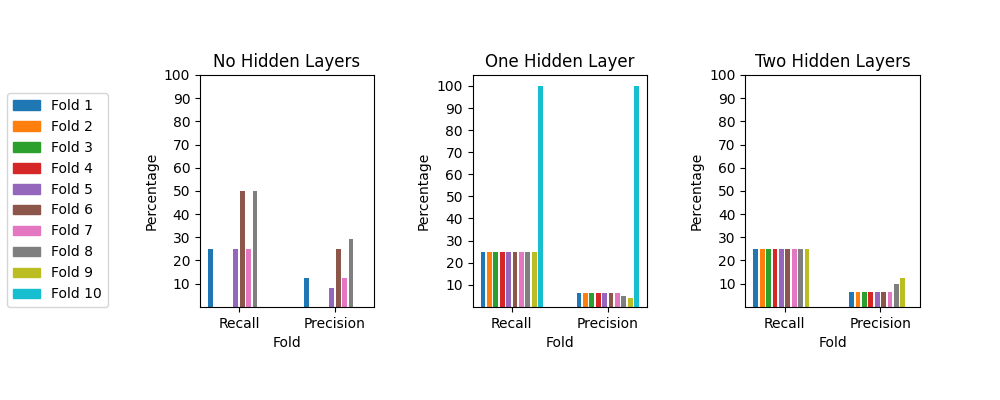
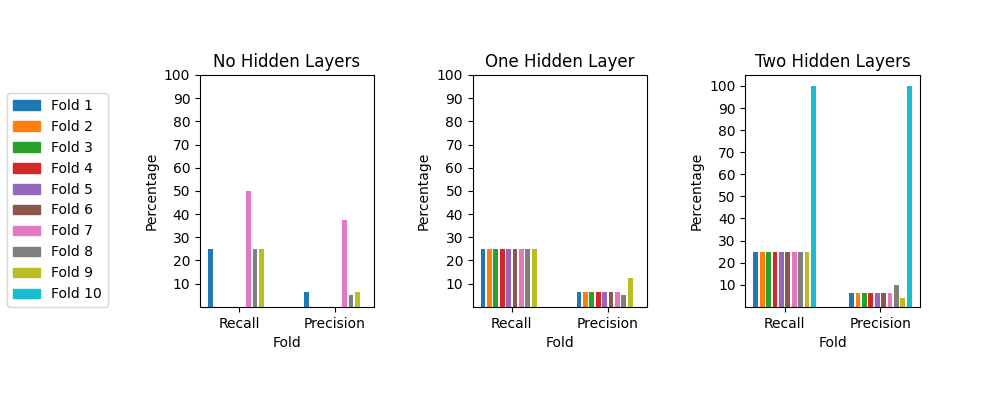
Finished Drivers

diff --git a/Project_4/driver_regression.py b/Project_4/driver_regression.py
@@ -161,8 +161,8 @@ def main():
     #-------------------------------------------------------------------------------------
     print("------------------------BP------------------------")
     # Hyperparameters
-    learning_rates = [0.001, 0.005, 0.01, 0.05, 0.1]
-    batch_sizes = [12, 43, 86, 129] #<- TODO: Must be changed with every dataset
+    learning_rates = [0.005, 0.01, 0.05, 0.1]
+    batch_sizes = [12, 43] #<- TODO: Must be changed with every dataset
 
     # Best Hyperparameter storage
     best_params_no = {}
@@ -358,7 +358,8 @@ def main():
     
     #-------------------------------------------------------------------------------------
     # Population is used in all the following methods, so it is only defined once
-    population_size = [10, 20, 50, 100]
+    population_size = [4, 6, 10, 16]
+    
     #-------------------------------------------------------------------------------------
     
     #-------------------------------------------------------------------------------------
@@ -371,11 +372,11 @@ def main():
 
     # Best Hyperparameter storage
     best_net_no = None
-    best_score_no = 0
+    best_score_no = 100
     best_net_one = None
-    best_score_one = 0
+    best_score_one = 100
     best_net_two = None
-    best_score_two = 0
+    best_score_two = 100
 
     # Performs grid search
     for i in population_size:
@@ -439,7 +440,7 @@ def main():
     no_ga_values = []
     one_ga_values = []
     two_ga_values = []
-
+    print('------')
     for i in folds:
         # Tests on the tuning set, gets loss function
         actual_zero, predicted_zero = best_net_no.test_data(i.to_numpy())
@@ -464,11 +465,11 @@ def main():
 
     # Best Hyperparameter storage
     best_net_no = None
-    best_score_no = 0
+    best_score_no = 100
     best_net_one = None
-    best_score_one = 0
+    best_score_one = 100
     best_net_two = None
-    best_score_two = 0
+    best_score_two = 100
 
     # Performs grid search
     for i in population_size:
@@ -532,7 +533,7 @@ def main():
     no_de_values = []
     one_de_values = []
     two_de_values = []
-
+    print('------')
     for i in folds:
         # Tests on the tuning set, gets loss function
         actual_zero, predicted_zero = best_net_no.test_data(i.to_numpy())
@@ -546,13 +547,13 @@ def main():
         no_de_values.append(no_loss)
         one_de_values.append(one_loss)
         two_de_values.append(two_loss)
-
+    
     #-------------------------------------------------------------------------------------
     # PARTICLE SWARM
     #-------------------------------------------------------------------------------------
     print("------------------------PS------------------------")
-    cognitive_weight = [0.5, 1.0, 1.5, 2.0, 2.5]
-    social_weight = [0.5, 1.0, 1.5, 2.0, 2.5]
+    cognitive_weight = [0.5, 1.0, 1.5, 2.0]
+    social_weight = [0.5, 1.0, 1.5, 2.0]
 
     # Best Hyperparameter storage
     best_no_set = []
@@ -592,9 +593,9 @@ def main():
                     classification = DATASET_CLASS
                     max_velocity = 0.5
 
-                    no_hidden_model = ParticleSwarm(inertial_weight, inertia_max, inertia_min, max_epochs, cognitive, social, population, dataset_size, inputs, 0, [], classification, max_velocity) #0 Hidden
-                    one_hidden_model = ParticleSwarm(inertial_weight, inertia_max, inertia_min, max_epochs, cognitive, social, population, dataset_size, inputs, 1, [NUM_NODES[0]], classification, max_velocity) #1 Hidden
-                    two_hidden_model = ParticleSwarm(inertial_weight, inertia_max, inertia_min, max_epochs, cognitive, social, population, dataset_size, inputs, 2, NUM_NODES, classification, max_velocity) #2 Hidden
+                    no_hidden_model = ParticleSwarm(inertial_weight, inertia_max, inertia_min, max_epochs, cognitive, social, population, dataset_size, inputs, 0, [], classification, 1, None, max_velocity) #0 Hidden
+                    one_hidden_model = ParticleSwarm(inertial_weight, inertia_max, inertia_min, max_epochs, cognitive, social, population, dataset_size, inputs, 1, [NUM_NODES[0]], classification,1, None, max_velocity) #1 Hidden
+                    two_hidden_model = ParticleSwarm(inertial_weight, inertia_max, inertia_min, max_epochs, cognitive, social, population, dataset_size, inputs, 2, NUM_NODES, classification,1, None, max_velocity) #2 Hidden
 
                     #Initialize populations for each hidden layer number setting 
                     no_hidden_model.initialize_population()
@@ -666,9 +667,9 @@ def main():
         classification = DATASET_CLASS
         max_velocity = 0.5
 
-        no_hidden_model = ParticleSwarm(inertial_weight, inertia_max, inertia_min, max_epochs, best_no_set[1], best_no_set[2], best_no_set[0], dataset_size, inputs, 0, [], classification, max_velocity) #0 Hidden
-        one_hidden_model = ParticleSwarm(inertial_weight, inertia_max, inertia_min, max_epochs, best_one_set[1], best_one_set[2], best_one_set[0], dataset_size, inputs, 1, [NUM_NODES[0]], classification, max_velocity) #1 Hidden
-        two_hidden_model = ParticleSwarm(inertial_weight, inertia_max, inertia_min, max_epochs, best_two_set[1], best_two_set[2], best_two_set[0], dataset_size, inputs, 2, NUM_NODES, classification, max_velocity) #2 Hidden
+        no_hidden_model = ParticleSwarm(inertial_weight, inertia_max, inertia_min, max_epochs, best_no_set[1], best_no_set[2], best_no_set[0], dataset_size, inputs, 0, [], classification,1, None, max_velocity) #0 Hidden
+        one_hidden_model = ParticleSwarm(inertial_weight, inertia_max, inertia_min, max_epochs, best_one_set[1], best_one_set[2], best_one_set[0], dataset_size, inputs, 1, [NUM_NODES[0]], classification, 1, None, max_velocity) #1 Hidden
+        two_hidden_model = ParticleSwarm(inertial_weight, inertia_max, inertia_min, max_epochs, best_two_set[1], best_two_set[2], best_two_set[0], dataset_size, inputs, 2, NUM_NODES, classification,1, None, max_velocity) #2 Hidden
 
         #Initialize populations for each hidden layer number setting 
         no_hidden_model.initialize_population()

diff --git a/Project_4/driver_classification.py b/Project_4/driver_classification.py
@@ -10,27 +10,27 @@ import feedForwardNN
 import time
 
 # Breast Cancer Dataset
-DATASET_CALLED = 'breast-cancer'
-DATASET = 'Project_4/datasets/breast-cancer-wisconsin.data'
-DATASET_NAMES = ['id', '2', '3', '4', '5', '6', '7', '8', '9', '10', 'class']
-CLASS_NAMES = ['2', '4']
-NUM_CLASSES = len(CLASS_NAMES)
-NUM_NODES = [4,4]
-DATASET_CLASS = True
-
-# Glass Dataset
-#DATASET_CALLED = 'glass'
-#DATASET = 'datasets/glass.data'
-#DATASET_NAMES = ['id', 'RI', 'Na', 'Mg', 'Al', 'Si', 'K', 'Ca', 'Ba', 'Fe', 'class']
-#CLASS_NAMES = ['1', '2', '3', '5', '6', '7']
+#DATASET_CALLED = 'breast-cancer'
+#DATASET = 'Project_4/datasets/breast-cancer-wisconsin.data'
+#DATASET_NAMES = ['id', '2', '3', '4', '5', '6', '7', '8', '9', '10', 'class']
+#CLASS_NAMES = ['2', '4']
 #NUM_CLASSES = len(CLASS_NAMES)
-#NUM_NODES = [6, 6]
+#NUM_NODES = [4,4]
 #DATASET_CLASS = True
 
+# Glass Dataset
+DATASET_CALLED = 'glass'
+DATASET = 'Project_4/datasets/glass.data'
+DATASET_NAMES = ['id', 'RI', 'Na', 'Mg', 'Al', 'Si', 'K', 'Ca', 'Ba', 'Fe', 'class']
+CLASS_NAMES = ['1', '2', '3', '5', '6', '7']
+NUM_CLASSES = len(CLASS_NAMES)
+NUM_NODES = [6, 6]
+DATASET_CLASS = True
+
 # Soybean Dataset
-# TODO: WHEN WORKING WITH SOYBEAN, FIND AND DELETE ALL INSTANCES OF .astype(float)
+# TODO: WHEN WORKING WITH SOYBEAN, FIND AND DELETE ALL INSTANCES OF 
 #DATASET_CALLED = 'soybean'
-#DATASET = 'datasets/soybean-small.data'
+#DATASET = 'Project_4/datasets/soybean-small.data'
 #DATASET_NAMES = [*range(35)] + ['class']
 #CLASS_NAMES = ['D1', 'D2', 'D3', 'D4']
 #NUM_CLASSES = len(CLASS_NAMES)
@@ -267,7 +267,7 @@ def plot_loss_functions(zero_BP_layer, one_BP_layer, two_BP_layer,
 
     fig.legend(handles, labels.keys(), loc='center left')
 
-    plt.savefig('Project_3/figures/' + DATASET_CALLED +'_fig.png')
+    plt.savefig('Project_4/figures/' + DATASET_CALLED +'_fig.png')
 
 def loss_functions(estimates:np.array, actual:np.array):
         '''Calculates preiciosn and recall'''
@@ -301,9 +301,9 @@ def loss_functions(estimates:np.array, actual:np.array):
 
 def main():
     # Creates a data process instance with accurate information from the .NAMES file
-    data = DataProcess(names=DATASET_NAMES, cat_class=True, id_col='id', missing_val='?') #<- TODO: Breast Cancer Data set
+    #data = DataProcess(names=DATASET_NAMES, cat_class=True, id_col='id', missing_val='?') #<- TODO: Breast Cancer Data set
     #data = DataProcess(names=DATASET_NAMES, cat_class=True, id_col='id') # <- TODO: Glass Dataset
-    #data = DataProcess(names=DATASET_NAMES, cat_class=True) #<- TODO: Soybean Dataset
+    data = DataProcess(names=DATASET_NAMES, cat_class=True) #<- TODO: Soybean Dataset
 
     # Loads the data set, creates the tuning set, then splits into ten folds
     data.loadCSV(DATASET)
@@ -316,7 +316,7 @@ def main():
     print("------------------------BP------------------------")
     # Hyperparameters
     learning_rates = [0.001, 0.005, 0.01, 0.05, 0.1]
-    batch_sizes = [2, 349] #<- TODO: Must be changed with every dataset
+    batch_sizes = [107] #<- TODO: Must be changed with every dataset
 
     # Best Hyperparameter storage
     best_params_no = {}
@@ -507,6 +507,7 @@ def main():
         actual_zero, predicted_zero = no_hidden.test_data(i.to_numpy())
         actual_one, predicted_one = one_hidden.test_data(i.to_numpy())
         actual_two, predicted_two = two_hidden.test_data(i.to_numpy())
+        print('---------')
         no_loss = loss_functions(predicted_zero.astype(float), actual_zero)
         one_loss = loss_functions(predicted_one.astype(float), actual_one)
         two_loss = loss_functions(predicted_two.astype(float), actual_two)
@@ -518,7 +519,7 @@ def main():
     
     #-------------------------------------------------------------------------------------
     # Population is used in all the following methods, so it is only defined once
-    population_size = [10, 20, 50, 100]
+    population_size = [4, 6, 10, 16]
     #-------------------------------------------------------------------------------------
     
     #-------------------------------------------------------------------------------------
@@ -613,7 +614,7 @@ def main():
         no_ga_values.append(no_loss)
         one_ga_values.append(one_loss)
         two_ga_values.append(two_loss)
-
+    
     #-------------------------------------------------------------------------------------
     # DIFFERENTIAL EVOLUTION
     #-------------------------------------------------------------------------------------
@@ -706,7 +707,7 @@ def main():
         no_de_values.append(no_loss)
         one_de_values.append(one_loss)
         two_de_values.append(two_loss)
-
+    
     #-------------------------------------------------------------------------------------
     # PARTICLE SWARM
     #-------------------------------------------------------------------------------------

diff --git a/Project_4/NeuralNetworkPSO.py b/Project_4/NeuralNetworkPSO.py
@@ -155,7 +155,7 @@ class NeuralNetworkPSO():
             all_actual[no] = i[-1]
             all_pred[no] = predicted_val[counter]
             counter += 1
-            # If the minibatch has been iterated through, perform backprop
+            # If the minibatch has been iterated through
             if counter == self.batch_size:             
                 probabilities_list = output_layer.get_probabilities()
                 error_signal = self.error_signal(predicted_val, actual_val, probabilities_list)

diff --git a/Project_4/ParticleSwarm.py b/Project_4/ParticleSwarm.py
@@ -47,7 +47,6 @@ class ParticleSwarm():
 
         #While the positions of each network change by greater than 0.1%...
         while(not converged):
-            print(f"EPOCH {self.epoch}")
             fitnesses = {}
             old_positions = []
             new_positions = []

diff --git a/Project_4/tempCodeRunnerFile.py b/Project_4/tempCodeRunnerFile.py
@@ -1,2 +1,1 @@
-e)
-        return mse
+exit()
